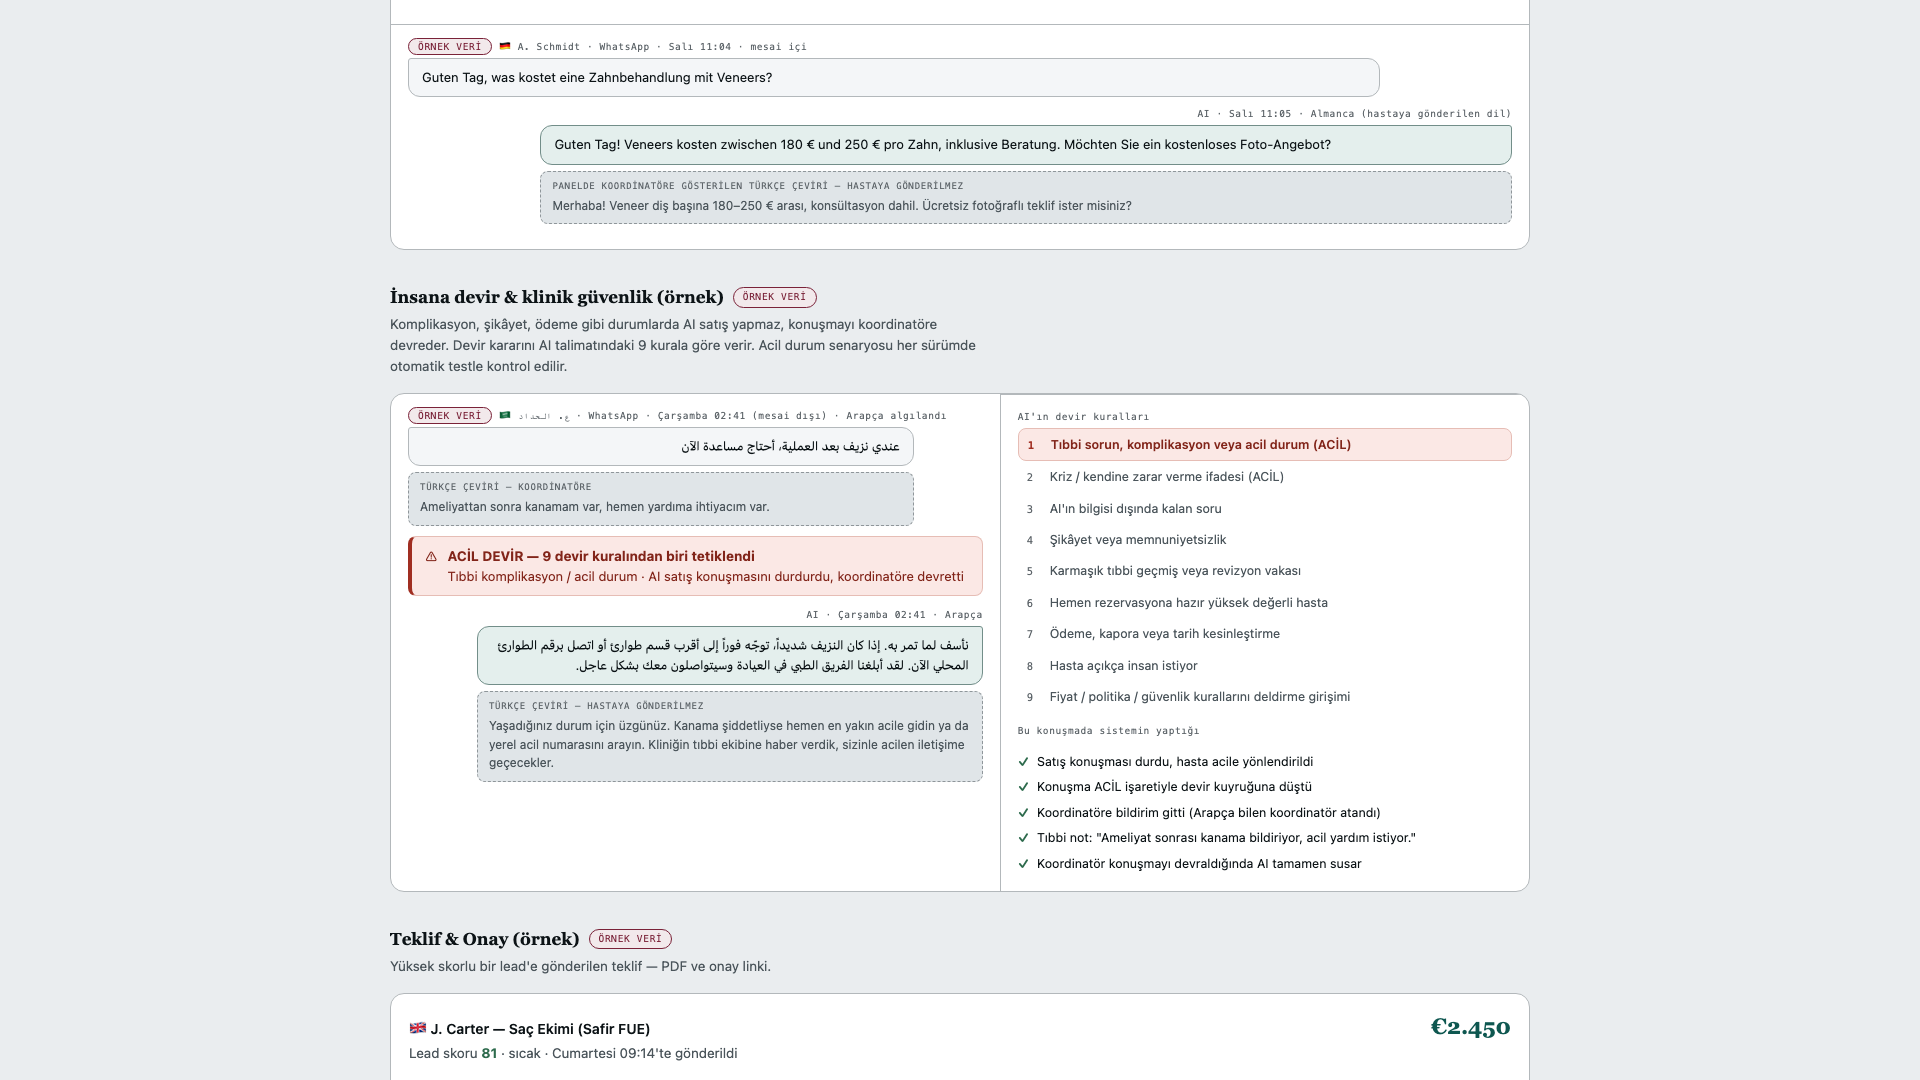
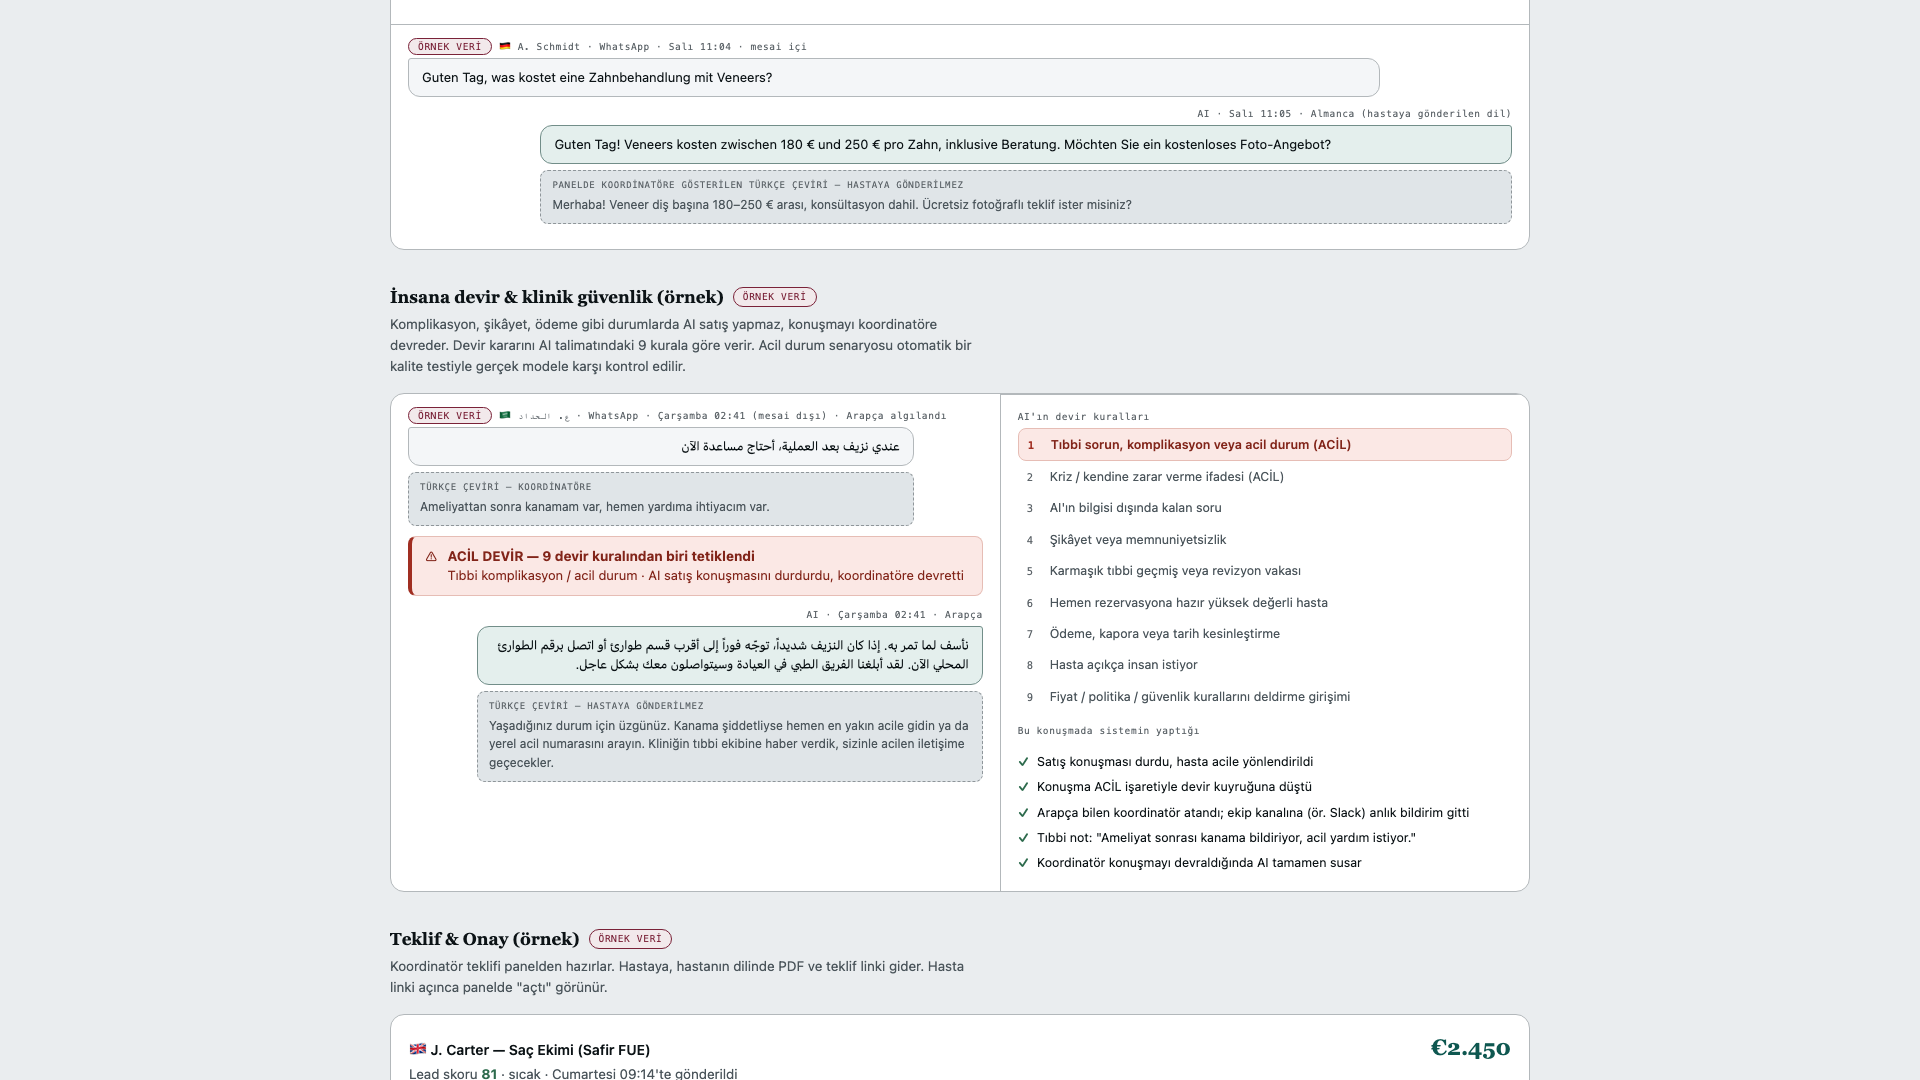
Ameliyat sonrasi takip: gonderilemeyen adimi 'gonderildi' gosterme; demo iddialarini koda uydur
- scheduler: WhatsApp bagli degilse 'not_sent', Meta hata verirse 'failed'
  (onceden ikisi de 'sent' kaliyordu; panel ve uyum skoru yanlis gosteriyordu)
- uyum skoru: failed/not_sent gecikmis sayilir
- demo: olmayan 'onay linki' yerine gercek teklif linki + koordinator kabulu;
  'her surumde test' ve medivoyage.app ifadeleri kaldirildi; testler bunlari yakaliyor

diff --git a/public/demo.html b/public/demo.html
@@ -147,7 +147,7 @@
   </header>
 
   <div class="readonly-note">
-    Bu bir gösterim ortamıdır. Hiçbir buton bir API çağrısı yapmaz, hiçbir sayı gerçek bir hastaya ait değildir — hepsi örnek. Gerçek panel gerçek klinik verisiyle aynı ekranları gösterir.
+    Bu bir gösterim ortamıdır. Hiçbir buton bir API çağrısı yapmaz, hiçbir sayı gerçek bir hastaya ait değildir — hepsi örnek. Gerçek panel gerçek klinik verisiyle aynı ekranları gösterir; WhatsApp ve Instagram bağlantısı pilot kliniğin kendi hesabıyla kurulur.
   </div>
 
   <div class="section-title">Komuta Merkezi<span class="demo-tag">Örnek veri</span></div>
@@ -191,7 +191,7 @@
 
   <section id="shotHandover">
   <div class="section-title">İnsana devir &amp; klinik güvenlik (örnek)<span class="demo-tag">Örnek veri</span></div>
-  <div class="sub">Komplikasyon, şikâyet, ödeme gibi durumlarda AI satış yapmaz, konuşmayı koordinatöre devreder. Devir kararını AI talimatındaki 9 kurala göre verir. Acil durum senaryosu her sürümde otomatik testle kontrol edilir.</div>
+  <div class="sub">Komplikasyon, şikâyet, ödeme gibi durumlarda AI satış yapmaz, konuşmayı koordinatöre devreder. Devir kararını AI talimatındaki 9 kurala göre verir. Acil durum senaryosu otomatik bir kalite testiyle gerçek modele karşı kontrol edilir.</div>
   <div class="glass handover-grid">
     <div class="chat" id="chatEmergency">
       <div class="meta"><span class="demo-tag" style="margin-right:7px">Örnek veri</span>🇸🇦 ع. الحداد · WhatsApp · Çarşamba 02:41 (mesai dışı) · Arapça algılandı</div>
@@ -219,7 +219,7 @@
       <ul class="steps">
         <li>Satış konuşması durdu, hasta acile yönlendirildi</li>
         <li>Konuşma ACİL işaretiyle devir kuyruğuna düştü</li>
-        <li>Koordinatöre bildirim gitti (Arapça bilen koordinatör atandı)</li>
+        <li>Arapça bilen koordinatör atandı; ekip kanalına (ör. Slack) anlık bildirim gitti</li>
         <li>Tıbbi not: "Ameliyat sonrası kanama bildiriyor, acil yardım istiyor."</li>
         <li>Koordinatör konuşmayı devraldığında AI tamamen susar</li>
       </ul>
@@ -229,7 +229,7 @@
 
   <section id="shotQuote">
   <div class="section-title">Teklif &amp; Onay (örnek)<span class="demo-tag">Örnek veri</span></div>
-  <div class="sub">Yüksek skorlu bir lead'e gönderilen teklif — PDF ve onay linki.</div>
+  <div class="sub">Koordinatör teklifi panelden hazırlar. Hastaya, hastanın dilinde PDF ve teklif linki gider. Hasta linki açınca panelde "açtı" görünür.</div>
   <div class="glass quote-card" id="quoteCard">
     <div style="display:flex;justify-content:space-between;gap:14px;flex-wrap:wrap;align-items:baseline">
       <div>
@@ -245,16 +245,17 @@
     </div>
     <div style="display:flex;gap:9px;flex-wrap:wrap;align-items:center;margin-top:12px">
       <button class="disabled-btn">Teklif PDF (demo'da kapalı)</button>
-      <span class="pill human">✓ Hasta onayladı — Cumartesi 14:02</span>
+      <span class="pill">✓ Hasta teklifi açtı — Cumartesi 09:31</span>
+      <span class="pill human">✓ Kabul edildi — Cumartesi 14:02 (koordinatör işaretledi)</span>
     </div>
-    <div class="approve-link">Onay linki: medivoyage.app/onay/8f2a-c103 (demo — tıklanamaz)</div>
-    <div class="sub" style="margin:10px 0 0">Teklif PDF'i hastanın dilinde hazırlanır (bu örnekte İngilizce; Arapça için sağdan sola).</div>
+    <div class="approve-link">Teklif linki: …/api/public/quote/•••••••• (demo — tıklanamaz)</div>
+    <div class="sub" style="margin:10px 0 0">Teklif PDF'i hastanın dilinde hazırlanır (bu örnekte İngilizce; Arapça için sağdan sola). Kabulü, hasta onay verdikten sonra koordinatör işaretler.</div>
   </div>
   </section>
 
   <section id="shotPostOp">
   <div class="section-title">Ameliyat sonrası takip (örnek)<span class="demo-tag">Örnek veri</span></div>
-  <div class="sub">Koordinatör hastayı "taburcu" işaretleyince 6 adımlı takip otomatik planlanır. Vadesi gelen adım hastaya kendi dilinde WhatsApp şablonuyla otomatik gönderilir. Bugün: 19.11.2026.</div>
+  <div class="sub">Koordinatör hastayı "taburcu" işaretleyince 6 adımlı takip otomatik planlanır. Vadesi gelen adım WhatsApp şablon mesajıyla otomatik gönderilir (şablonların kliniğin Meta hesabında onaylı olması gerekir). Gönderilemeyen adım panelde "gönderilemedi" olarak görünür. Bugün: 19.11.2026.</div>
   <div class="glass scroller">
     <table id="postOpTable" class="postop-table" style="padding:0 0 6px"></table>
   </div>

diff --git a/public/index.html b/public/index.html
@@ -818,7 +818,7 @@ const I18N = {
     "postop.empty":"No post-op flows yet. Open a conversation in the Inbox and click \"Mark discharged\".",
     "postop.thankYou":"Thank-you","postop.reviewInvite":"Review invite","postop.checkin7":"Day-7 check-in",
     "postop.checkin30":"Day-30 check-in","postop.fitToFly":"Fit-to-Fly doc","postop.checkup1y":"1-year checkup",
-    "postop.sentMark":"✓ sent",
+    "postop.sentMark":"✓ sent","postop.failedMark":"✗ send failed","postop.notSentMark":"not sent — WhatsApp not connected",
     "reviews.sub":"Every discharged patient is automatically invited to leave a Trustpilot / Google review — growing your reputation on autopilot.",
     "reviews.invites":"Review invites","reviews.scheduled":"scheduled","reviews.sent":"Sent",
     "reviews.delivered":"delivered automatically","reviews.reputation":"Reputation","reviews.noRatingSource":"needs a Trustpilot / Google connection",
@@ -1158,7 +1158,7 @@ const I18N = {
     "postop.empty":"Henüz ameliyat sonrası akış yok. Gelen Kutusu'nda bir görüşme açın ve \"Taburcu işaretle\"ye tıklayın.",
     "postop.thankYou":"Teşekkür","postop.reviewInvite":"Değerlendirme daveti","postop.checkin7":"7. gün kontrol",
     "postop.checkin30":"30. gün kontrol","postop.fitToFly":"Uçuşa uygunluk belgesi","postop.checkup1y":"1 yıllık kontrol",
-    "postop.sentMark":"✓ gönderildi",
+    "postop.sentMark":"✓ gönderildi","postop.failedMark":"✗ gönderilemedi","postop.notSentMark":"gönderilmedi — WhatsApp bağlı değil",
     "reviews.sub":"Taburcu olan her hasta otomatik olarak Trustpilot / Google değerlendirmesi bırakmaya davet edilir — itibarınız kendiliğinden büyür.",
     "reviews.invites":"Değerlendirme davetleri","reviews.scheduled":"planlandı","reviews.sent":"Gönderilen",
     "reviews.delivered":"otomatik iletildi","reviews.reputation":"İtibar","reviews.noRatingSource":"Trustpilot / Google bağlantısı gerekiyor",
@@ -3946,7 +3946,7 @@ function PostOp(){
       : d.map((p,i)=> html`<div class="glass" key=${i} style="padding:14px 18px;margin-bottom:12px">
         <div style="font-weight:700;margin-bottom:8px">${leadIdentity(p)} ${channelBadge(p.source)}</div>
         <div style="display:flex;flex-wrap:wrap;gap:8px">
-          ${(p.tasks||[]).map((t,j)=> html`<span key=${j} class="badge ${t.status==='sent'?'human':''}" style="font-size:11.5px">${POSTOP_LABELS[t.kind]?T(POSTOP_LABELS[t.kind]):t.kind} · ${t.status==='sent'?T("postop.sentMark"):new Date(t.due_at).toLocaleDateString()}</span>`)}
+          ${(p.tasks||[]).map((t,j)=> html`<span key=${j} class="badge ${t.status==='sent'?'human':t.status==='failed'||t.status==='not_sent'?'hot':''}" style="font-size:11.5px">${POSTOP_LABELS[t.kind]?T(POSTOP_LABELS[t.kind]):t.kind} · ${t.status==='sent'?T("postop.sentMark"):t.status==='failed'?T("postop.failedMark"):t.status==='not_sent'?T("postop.notSentMark"):new Date(t.due_at).toLocaleDateString()}</span>`)}
         </div>
       </div>`)}
   </div>`;

diff --git a/src/services/scheduler.js b/src/services/scheduler.js
@@ -18,7 +18,7 @@ import { config } from '../config.js';
 import { sendTemplate } from './whatsapp.js';
 import { notifyNoShowRisk, notifySlaFirstReminder, notifySlaEscalation, notifyWeeklyReport } from './notify.js';
 import {
-  getDuePostOpTasks, markPostOpSent, getNoShowRisks, markRiskNotified, clearRiskNotified,
+  getDuePostOpTasks, markPostOpSent, setPostOpResult, getNoShowRisks, markRiskNotified, clearRiskNotified,
   getSilentHotLeads, markHotFollowupSent, recordAgentMessage,
   getHandoversNeedingFirstReminder, markSlaFirstReminderSent,
   getHandoversNeedingEscalation, markSlaEscalated,
@@ -59,13 +59,20 @@ async function _processPostOp() {
     const claimed = await markPostOpSent(t.id).catch((e) => { console.error('[post-op] claim failed:', e.message); return false; });
     if (!claimed) continue; // another run already has this one
     try {
-      await sendTemplate(t.phone, t.kind, t.language || 'en', [t.name || 'there']);
+      const result = await sendTemplate(t.phone, t.kind, t.language || 'en', [t.name || 'there']);
+      if (result?.dryRun) {
+        // WhatsApp not configured — nothing actually left. Don't let the panel say "sent".
+        await setPostOpResult(t.id, 'not_sent').catch((e) => console.error('[post-op] status update failed:', e.message));
+        continue;
+      }
       console.log(`[post-op] sent "${t.kind}" → ${t.name || t.phone}`);
       sent++;
     } catch (err) {
       // Already claimed above — a permanent failure (e.g. an unapproved
-      // template) must not retry every minute forever.
-      console.error(`[post-op] "${t.kind}" send failed (already claimed, won't retry):`, err.message);
+      // template) must not retry every minute forever. Mark it 'failed' so
+      // the panel shows it as not delivered instead of "✓ sent".
+      console.error(`[post-op] "${t.kind}" send failed (won't retry):`, err.message);
+      await setPostOpResult(t.id, 'failed').catch((e) => console.error('[post-op] status update failed:', e.message));
     }
   }
   return sent;

diff --git a/src/store/repository.js b/src/store/repository.js
@@ -2722,6 +2722,14 @@ export async function markPostOpSent(id) {
   return Boolean(q.rows[0]);
 }
 
+// Claim (markPostOpSent) happens BEFORE the send so two runs can't double-send.
+// If the send then turns out not to have happened, overwrite the claim so the
+// panel never shows "✓ sent" for a message that never left: 'not_sent' when
+// WhatsApp isn't configured (dry-run), 'failed' when Meta rejected it.
+export async function setPostOpResult(id, status) {
+  await pool.query(`UPDATE post_op_tasks SET status=$2 WHERE id=$1`, [id, status]);
+}
+
 export async function getPostOpOverview() {
   const q = await pool.query(`
     SELECT l.id AS lead_id, l.name, l.phone, l.source, l.external_id,
@@ -3348,7 +3356,8 @@ export async function getComplianceSnapshot({ branchId } = {}) {
     // paydasına girerse, yeni ameliyatlar kliniğin takip skorunu düşürür.
     pool.query(
       `SELECT count(*) FILTER (WHERE t.status = 'sent')::int AS completed,
-              count(*) FILTER (WHERE t.status = 'pending' AND t.due_at < now())::int AS overdue,
+              -- Gönderilemeyen (failed / WhatsApp bağlı değil) görev yapılmış değildir: gecikmiş sayılır.
+              count(*) FILTER (WHERE (t.status = 'pending' AND t.due_at < now()) OR t.status IN ('failed','not_sent'))::int AS overdue,
               count(*) FILTER (WHERE t.status = 'pending' AND t.due_at >= now())::int AS upcoming
          FROM post_op_tasks t
          JOIN leads l ON l.id = t.lead_id
